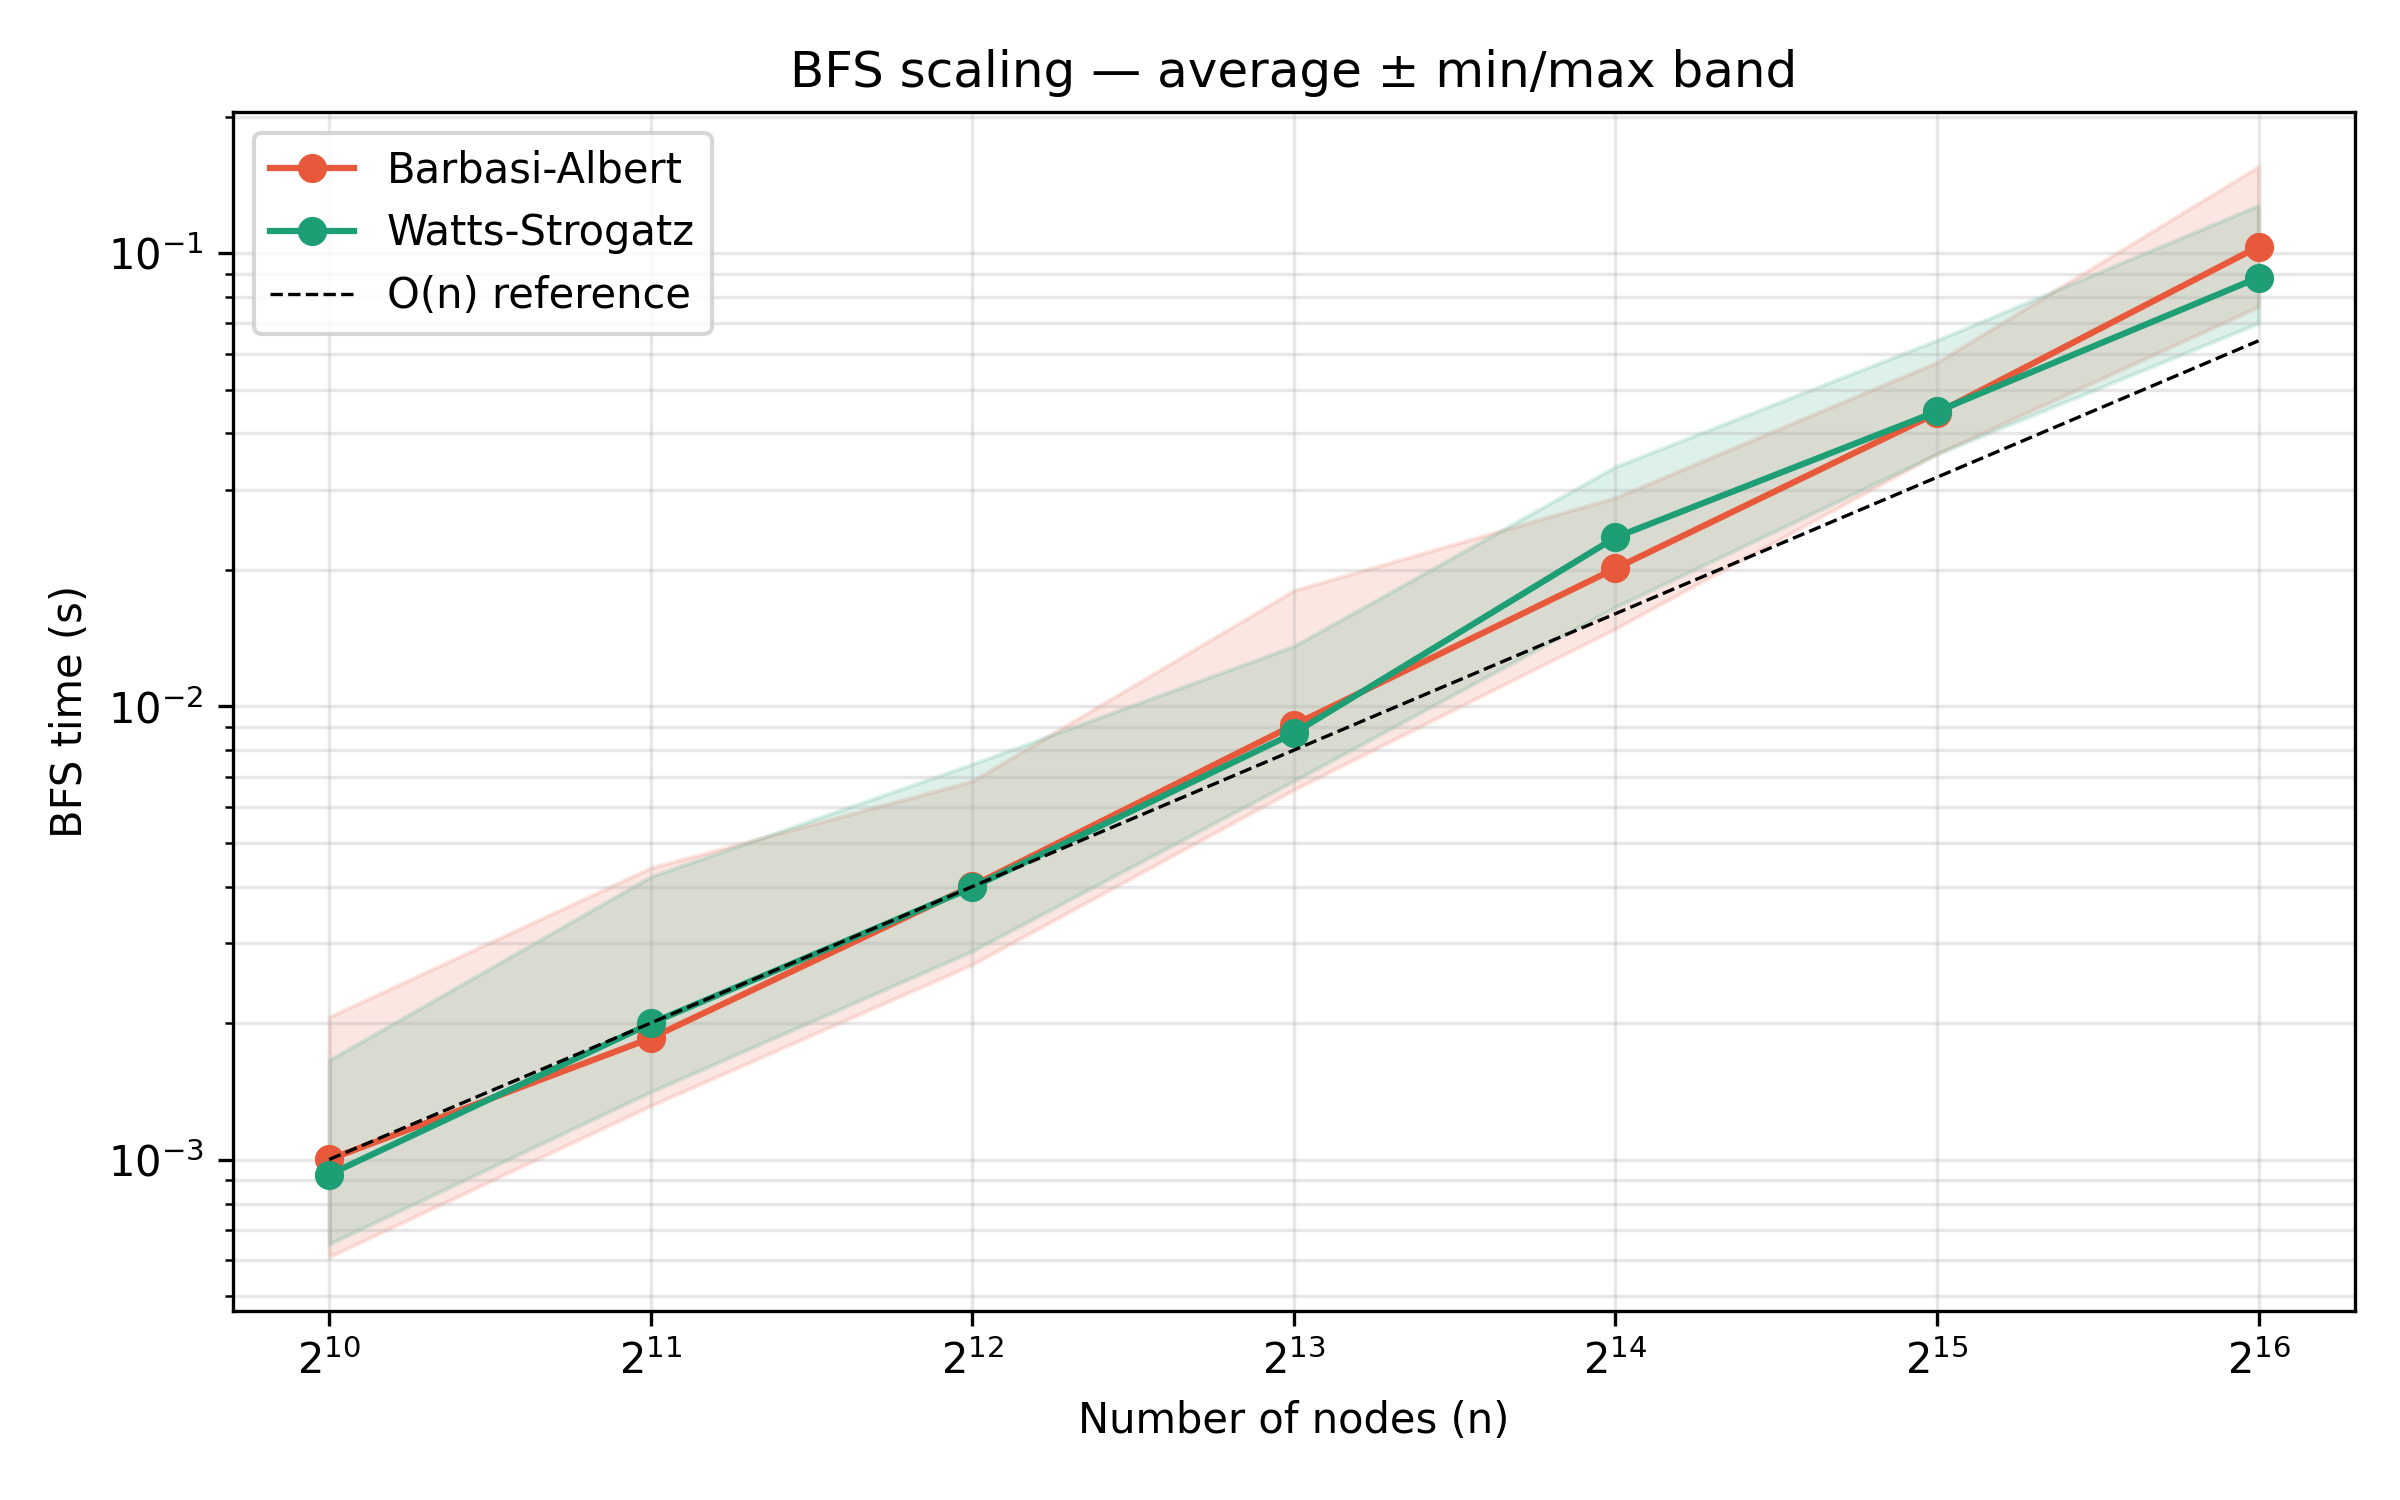
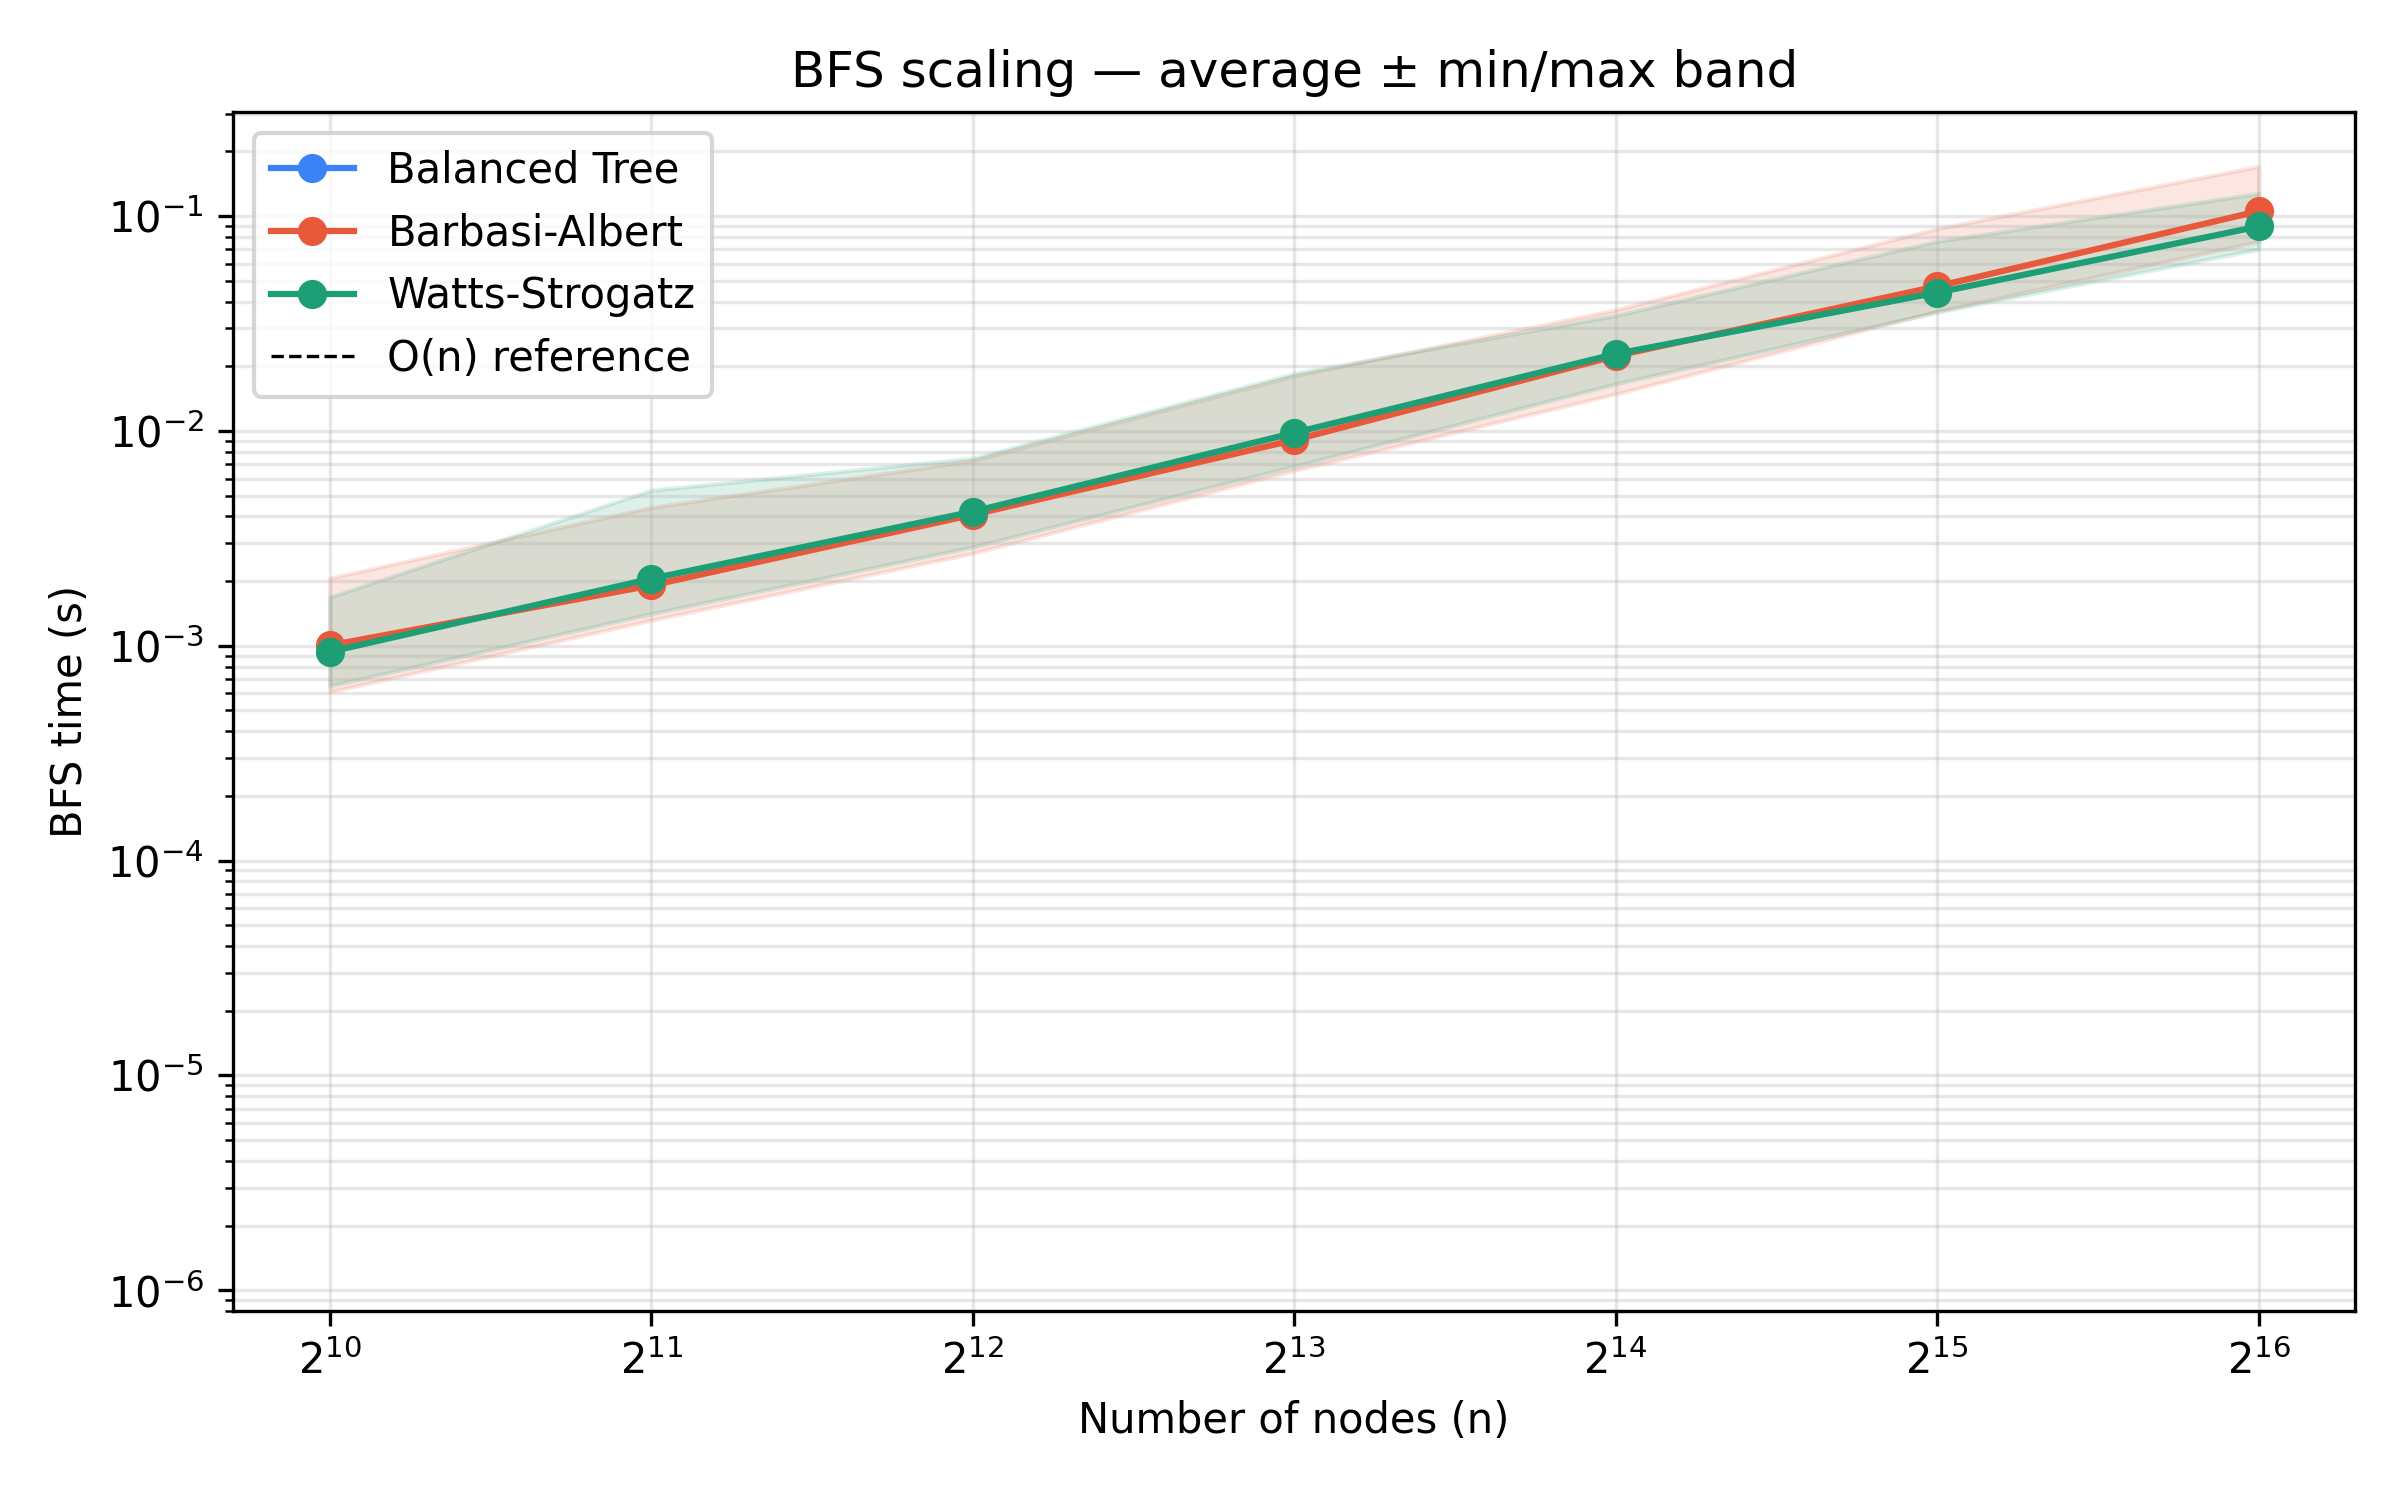
Enhance BFS implementation and plotting features; add support for Barabási–Albert graphs, update main parameters, and include new result database

diff --git a/Part_A/test.py b/Part_A/test.py
@@ -1,0 +1,93 @@
+from wrappers import timer_func
+import matplotlib.pyplot as plt
+import networkx as nx
+from collections import deque
+from functools import lru_cache
+
+def bfs():
+    pass
+
+def generate_graph(r, h):
+    return nx.balanced_tree(r, h)
+
+@lru_cache(maxsize=None)
+def generate_graph_fast(r, h):
+    """Returns adjacency list as dict. Node i's children: r*i+1 ... r*i+r"""
+    n = (r ** (h + 1) - 1) // (r - 1)  # total nodes
+    adj = {i: [] for i in range(n)}
+    for i in range(n):
+        for k in range(1, r + 1):
+            child = r * i + k
+            if child < n:
+                adj[i].append(child)
+                adj[child].append(i)
+    return adj
+
+def loop_graphs(r, h_max):
+    results = []
+    for i in range(1, h_max + 1):
+        h = i # height of the tree
+        print(f"Creating graph, with {(2**i)-1} nodes...")
+        G = generate_graph_fast(r, h)
+        print(f"Running BFS for tree height {i}...")
+        total = 0
+        for i in range(1):
+            _, time = bfs(G, start=list(G.keys())[0])
+            total += time
+        avg_time = total / 1
+        results.append((avg_time))
+    return results
+
+@timer_func
+def bfs(graph, start):
+    distance = {v: float('inf') for v in graph} # Initialize distances to infinity
+    visited = {v: False for v in graph} # Initialize visited status to False
+
+    distance[start] = 0 # Distance to the start node is 0
+    visited[start] = True # Mark the start node as visited
+
+    Q = deque([start]) # Initialize the queue with the start node
+    while Q: # While the queue is not empty
+        u = Q.popleft() # Dequeue a node from the queue
+        for w in graph[u]: # Iterate through the neighbors of the dequeued node
+            if not visited[w]: # If the neighbor has not been visited
+                visited[w] = True # Mark the neighbor as visited
+                distance[w] = distance[u] + 1 # Update the distance to the neighbor
+                Q.append(w) # Enqueue the neighbor to the queue
+    
+    return distance
+
+import numpy as np
+
+def plot_results(results, i):
+    fig, ax = plt.subplots(figsize=(10, 6))
+    
+    heights = np.array(range(1, len(results) + 1))
+    times = np.array(results)
+
+    ax.plot(heights, times, marker='o', label='BFS Time')
+
+    # O(n) reference: n = 2^h - 1, scaled to first data point
+    ns = 2**heights - 1
+    ref = ns * (times[0] / ns[0])
+    ax.plot(heights, ref, "k--", linewidth=0.8, label="O(n) reference")
+
+    ax.set_xlabel('Height of the Tree')
+    ax.set_ylabel('Average Time (seconds)')
+    ax.set_title('Performance of BFS on Balanced Trees')
+    ax.legend()
+    ax.grid()
+
+    if i == 0:
+        ax.set_yscale('log')
+        plt.savefig('bfs_time_log.png')
+    else:
+        plt.savefig('bfs_time.png')
+
+    plt.show()
+
+if __name__ == "__main__":
+    results = loop_graphs(r=2, h_max=24)
+    #results = [1.6927719116210937e-06, 3.0469894409179686e-06, 7.328987121582031e-06, 1.1496543884277343e-05, 3.031015396118164e-05, 4.9505233764648434e-05, 0.00011777877807617188, 0.00024958610534667967, 0.0004723238945007324, 0.000959162712097168, 0.002104747295379639, 0.004062471389770508, 0.008014488220214843, 0.017129714488983153, 0.0347056245803833, 0.07027392625808716, 0.14099830150604248, 0.29211068391799927, 0.608132803440094, 1.2748368763923645]
+    print(results)
+    plot_results(results, 0)

diff --git a/Part_A/A_single_processor.py b/Part_A/A_single_processor.py
@@ -1,6 +1,7 @@
 import networkx as nx
 from collections import deque
-from Part_A.wrappers import timer_func
+from wrappers import timer_func
+import matplotlib.pyplot as plt
 
 #-------------#
 #-----BFS-----#
@@ -31,3 +32,49 @@ def iterator(G, iterations):
         total_time += elapsed
         # print(f"Iteration {i+1}/{iterations} completed in {elapsed:.4f} seconds.")
     return total_time / iterations
+
+
+def plot_results(results, i):
+    plt.figure(figsize=(10, 6))
+    # Support two formats:
+    # 1) results is an iterable of (label, data) where data is list of (h, t)
+    # 2) results is a single list of (h, t) pairs (plot single series)
+    try:
+        first = next(iter(results))
+    except StopIteration:
+        return
+
+    if isinstance(first, tuple) and len(first) == 2 and isinstance(first[1], (list, tuple)):
+        # multiple labeled series
+        for label, data in results:
+            heights = [h for h, _ in data]
+            times = [t for _, t in data]
+            plt.plot(heights, times, marker='o', label=label)
+    else:
+        # single unlabeled series: treat `results` as sequence of (h, t)
+        heights = [h for h, _ in results]
+        times = [t for _, t in results]
+        plt.plot(heights, times, marker='o', label='Series')
+    plt.xlabel('Height of the Tree')
+    plt.ylabel('Average Time (seconds)')
+    plt.title('Performance Comparison of BFS Implementations')
+    plt.legend()
+    plt.grid()
+    if i == 0:
+        plt.yscale('log')
+        plt.savefig('bfs_comparison_log.png')
+    else:
+        plt.savefig('bfs_comparison.png')
+        
+if __name__ == "__main__":
+    for h in range(1, 10):
+        r = 2 # branching factor (childs per node)
+        graph = nx.balanced_tree(r, h)
+        G = graph
+        iterations = 100
+
+        avg_time = iterator(G, iterations)
+        plot_results([(f"Balanced Tree (r={r})", [(h, avg_time)])], i=1)
+
+        print(f"Graph with {graph.number_of_nodes()} nodes (r={r}, h={h})")
+        print(f"Average time of {iterations} iterations: {avg_time:.8f} seconds")

diff --git a/Part_B/B_shared_mem_parallel_Numba.py b/Part_B/B_shared_mem_parallel_Numba.py
@@ -14,8 +14,13 @@ def is_unvisited(neighbour, dist_of_neighbour):
     return 1 if dist_of_neighbour == -1 else 0
 
 class Graph:
-    def __init__(self, r, h):
-        self.G = nx.balanced_tree(r, h)
+    def __init__(self, r, h, binary=False):
+        if binary:
+            self.G = nx.balanced_tree(r, h)
+        else:
+            # For Barabási–Albert, ensure n > m (number of nodes > edges to attach)
+            n = max(r + 1, (2**h)-1 if (2**h)-1 > 0 else 1)
+            self.G = nx.barabasi_albert_graph(n=n, m=r)
         self.source = 0
         self.n = self.G.number_of_nodes()
         self.adj = {u: [] for u in range(self.n)}
@@ -27,8 +32,8 @@ class Graph:
             self.adj[v].append(u)
 
 class SharedMemoryParallelBFS(Graph):
-    def __init__(self, r, h):
-        super().__init__(r, h)
+    def __init__(self, r, h, binary=False):
+        super().__init__(r, h, binary)
 
     # Breadth-First Search (BFS) algorithm
     def parallel_bfs(self):

diff --git a/Part_A/A_plots.py b/Part_A/A_plots.py
@@ -19,7 +19,7 @@ for graph_type, n, edge_count, elapsed in rows:
     data[graph_type][n]["edges"] = edge_count
 
 graph_types = sorted(data.keys())
-colors      = {"Barbasi-Albert": "#E8593C", "Watts-Strogatz": "#1D9E75"}
+colors      = {"Barbasi-Albert": "#E8593C", "Watts-Strogatz": "#1D9E75", "Balanced Tree": "#3B82F6"}
 
 # ── Plot 1: Average time vs n (log-log) ───────────────────────
 fig, ax = plt.subplots(figsize=(8, 5))

diff --git a/comparison.py b/comparison.py
@@ -57,7 +57,7 @@ def data_bringer(r, iterations, h_max, p):
         h = i # height of the tree
 
         print(f"Creating graph, with {(2**i)-1} nodes...")
-        graph = SharedMemoryParallelBFS(r, h)
+        graph = SharedMemoryParallelBFS(r, h, binary=True)
         G = graph.G
 
         # NUMBA BFS #####################################

diff --git a/main.py b/main.py
@@ -29,7 +29,7 @@ Usage:
 
 if __name__ == "__main__":
     r = 2
-    h_max = 15
+    h_max = 20
     iterations = 30
     p = 4 # number of processes (only for multi-process BFS)
     main(r, iterations, h_max, p)
